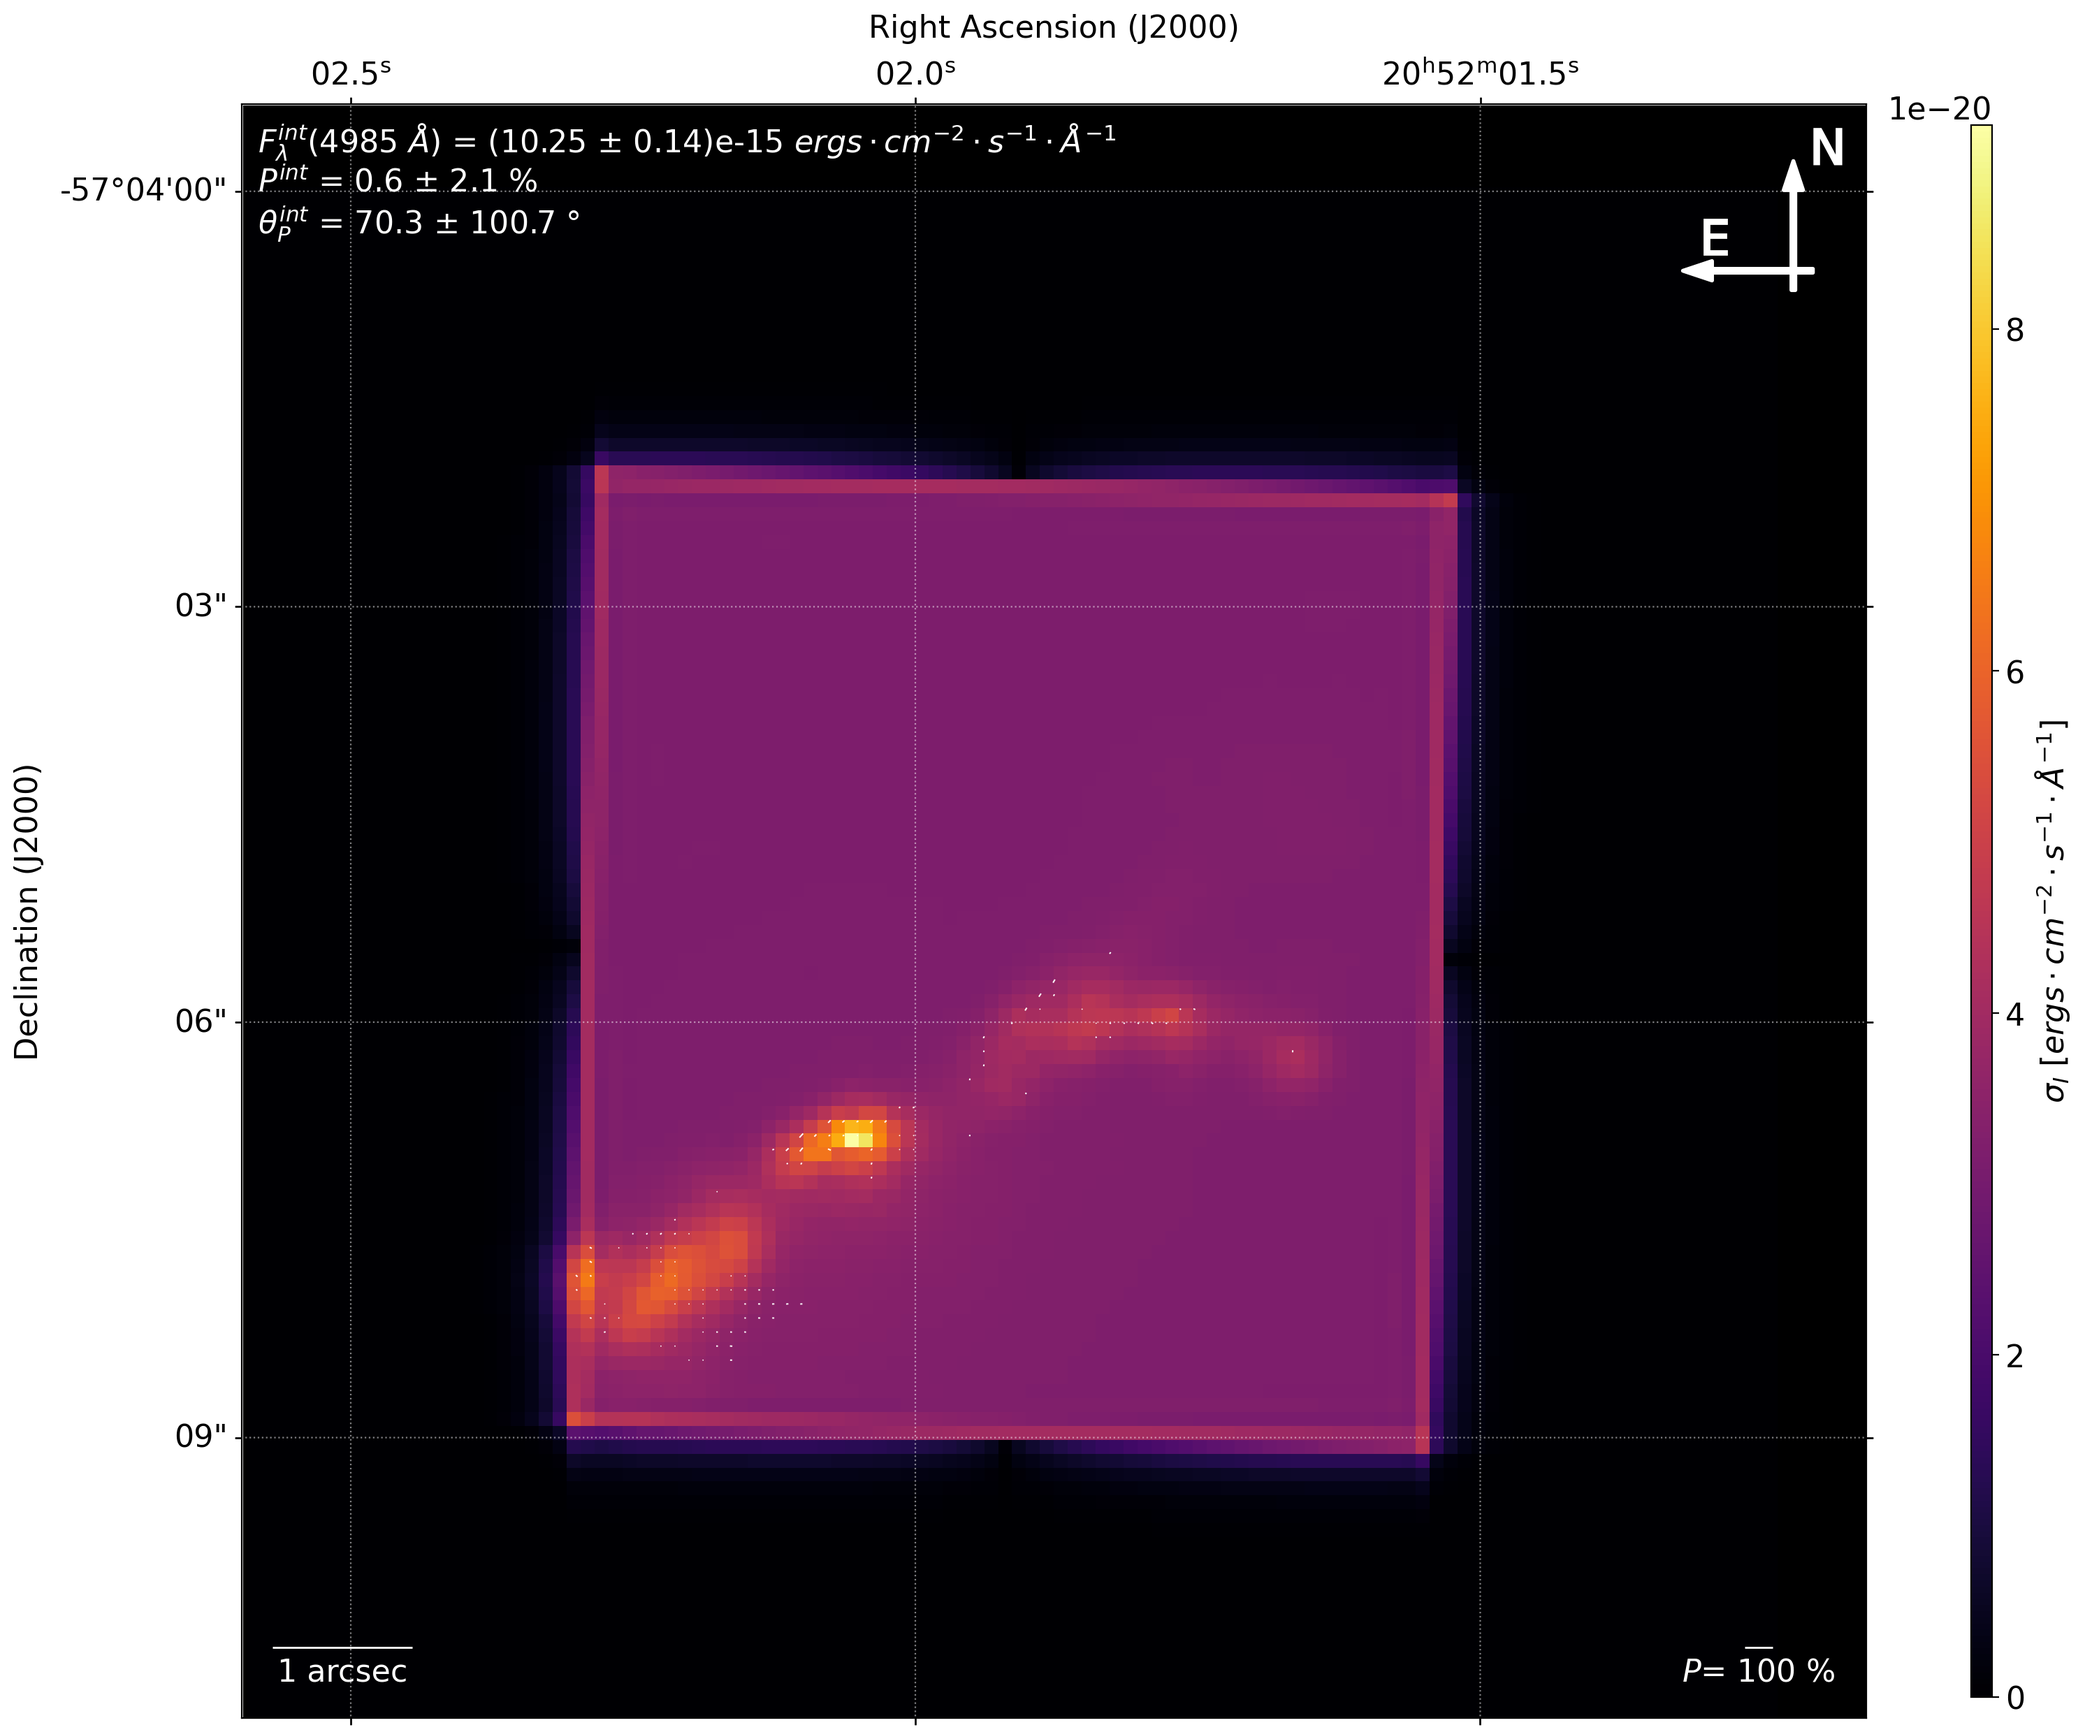
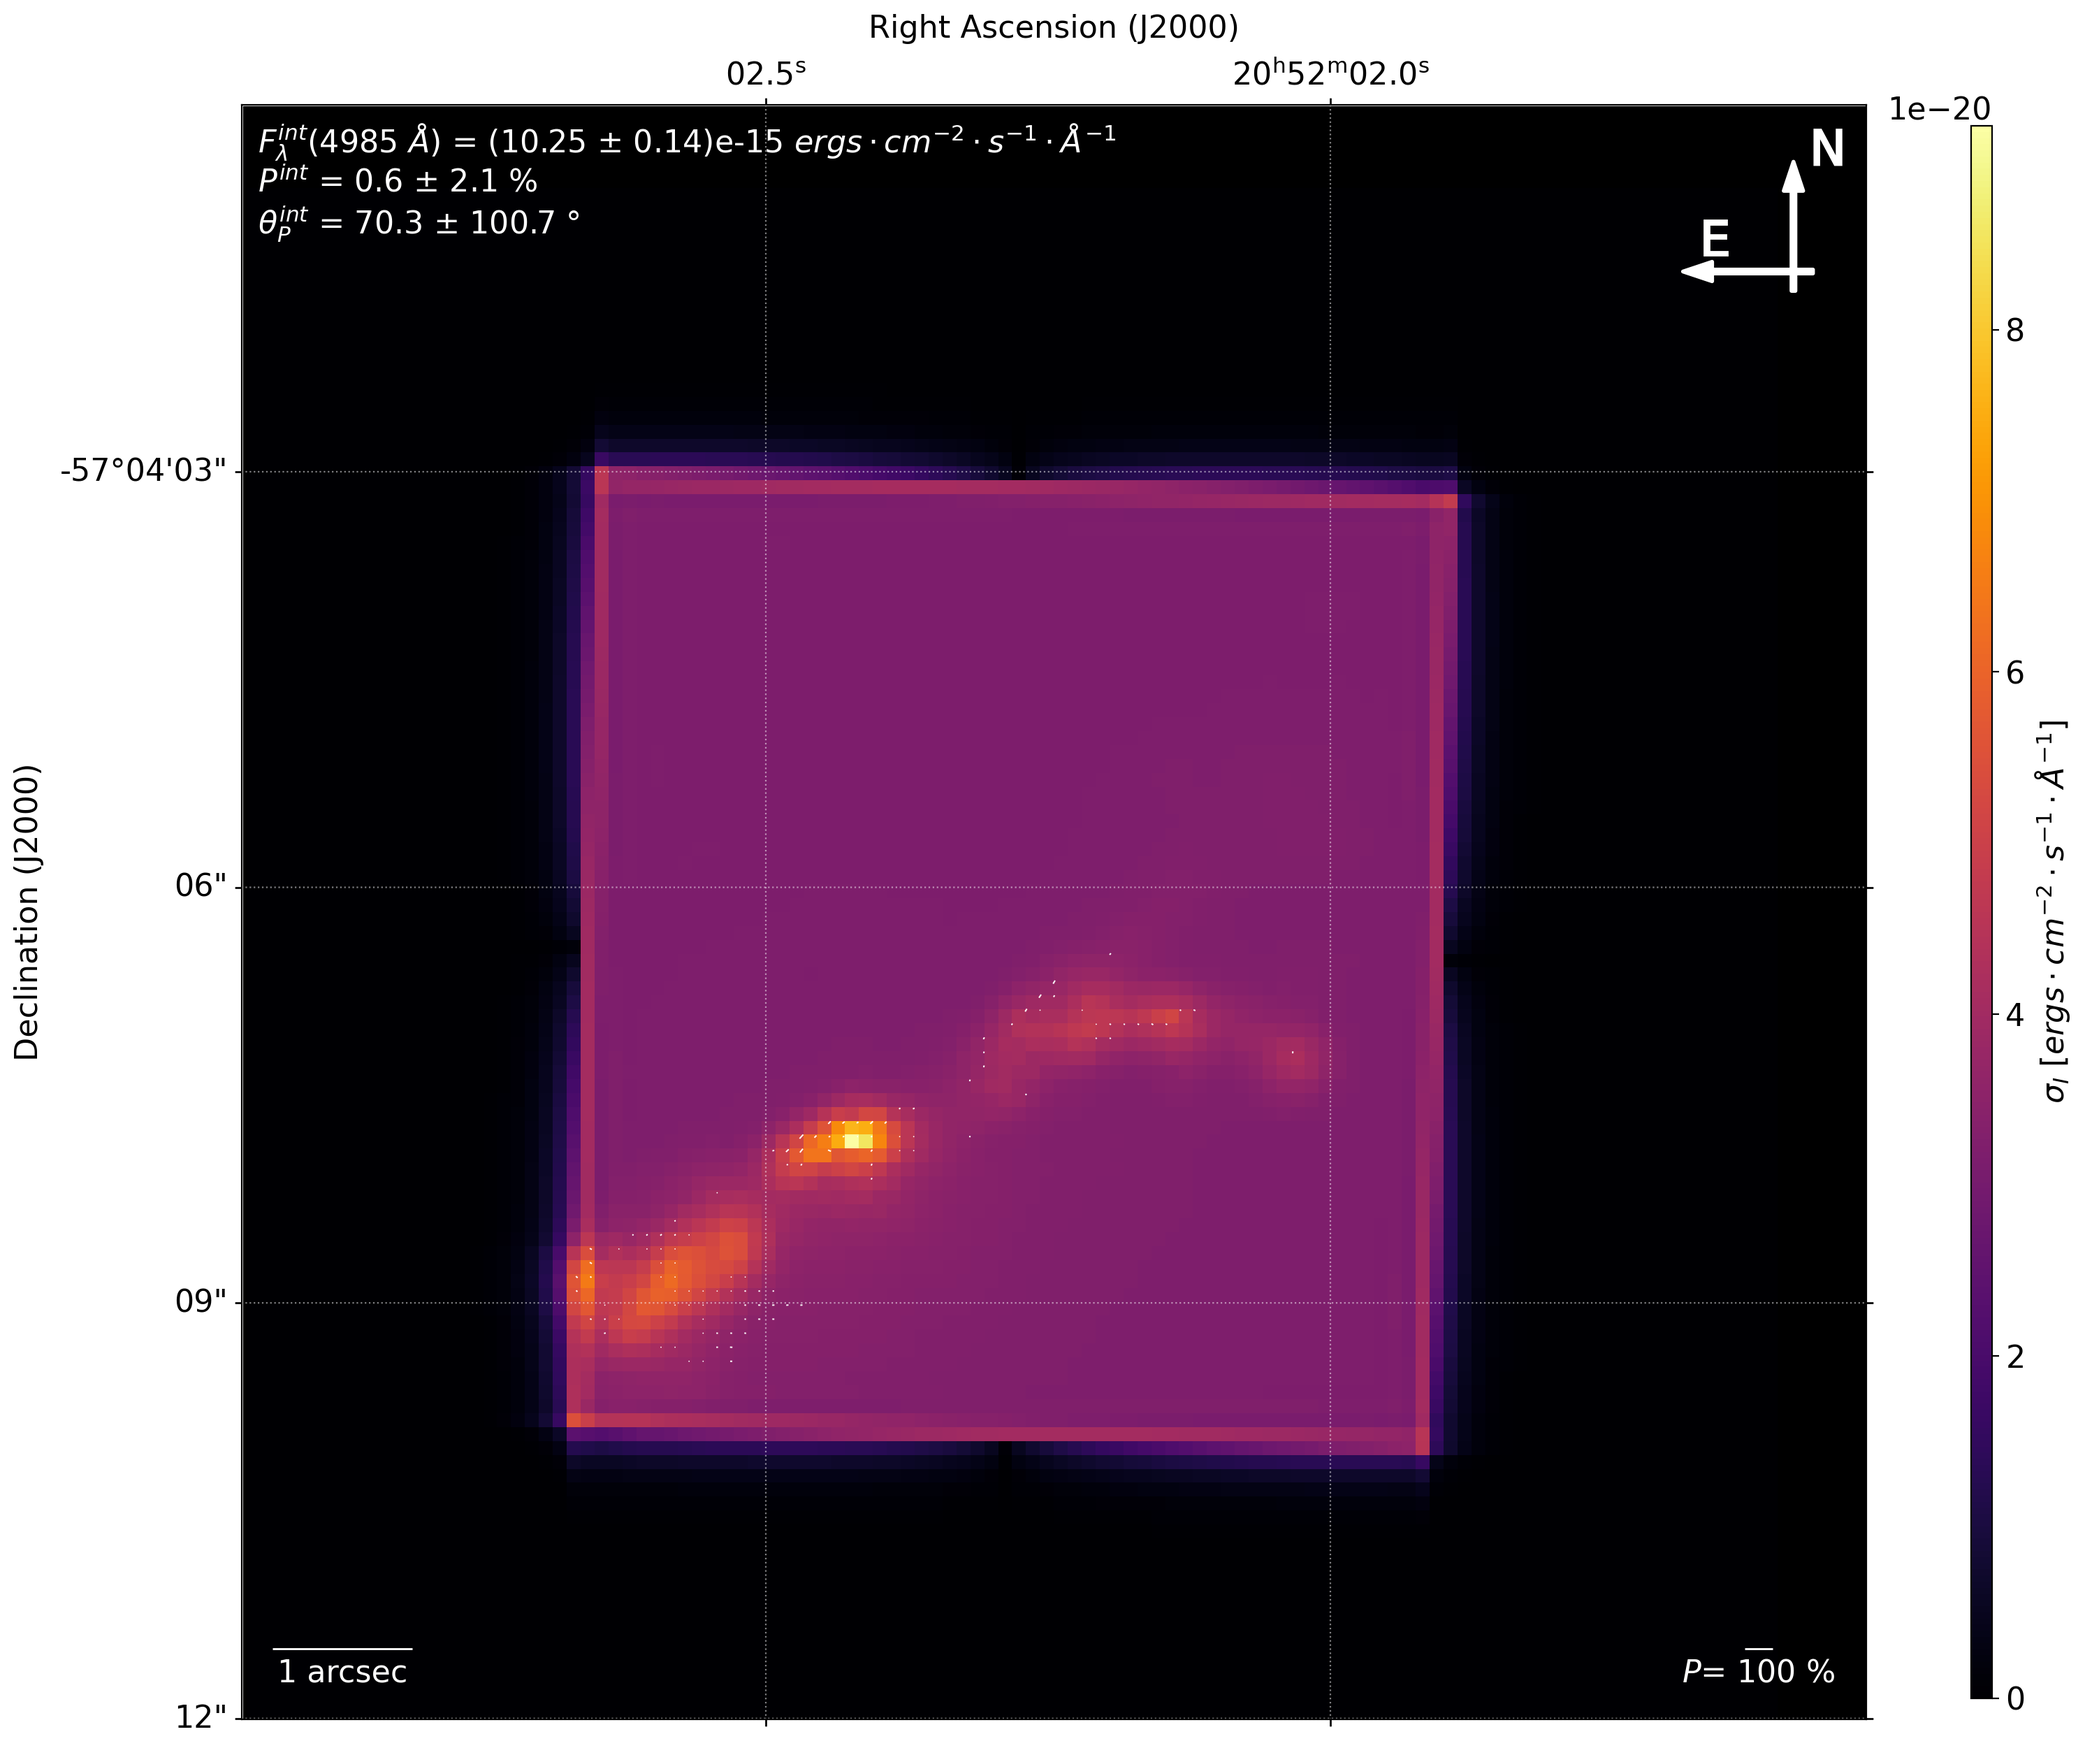
correct CRPIX handlign when cropping/aligning/rotating

diff --git a/src/lib/reduction.py b/src/lib/reduction.py
@@ -216,6 +216,10 @@ def crop_array(data_array, headers, error_array=None, step=5, null_val=None,
     Returns:
     cropped_array : numpy.ndarray
         Array containing the observationnal data homogeneously cropped.
+    headers : header list
+        Updated headers associated with the images in data_array.
+    cropped_error : numpy.ndarray
+        Array containing the error on the observationnal data homogeneously cropped.
     """
     if error_array is None:
         error_array = np.zeros(data_array.shape)
@@ -282,11 +286,16 @@ def crop_array(data_array, headers, error_array=None, step=5, null_val=None,
 
     crop_array = np.zeros((data_array.shape[0],new_shape[0],new_shape[1]))
     crop_error_array = np.zeros((data_array.shape[0],new_shape[0],new_shape[1]))
-    for i,image in enumerate(data_array):   #Put the image data in the cropped array
+    for i,image in enumerate(data_array):
+        #Put the image data in the cropped array
         crop_array[i] = image[v_array[0]:v_array[1],v_array[2]:v_array[3]]
         crop_error_array[i] = error_array[i][v_array[0]:v_array[1],v_array[2]:v_array[3]]
+        #Update CRPIX value in the associated header
+        curr_wcs = deepcopy(WCS(headers[i]))
+        curr_wcs.wcs.crpix = curr_wcs.wcs.crpix - np.array([v_array[0], v_array[2]])
+        headers[i].update(curr_wcs.to_header())
 
-    return crop_array, crop_error_array
+    return crop_array, crop_error_array, headers
 
 
 def deconvolve_array(data_array, headers, psf='gaussian', FWHM=1., scale='px',
@@ -353,7 +362,7 @@ def deconvolve_array(data_array, headers, psf='gaussian', FWHM=1., scale='px',
     return deconv_array
 
 
-def get_error(data_array, sub_shape=(15,15), display=False, headers=None,
+def get_error(data_array, headers, sub_shape=(15,15), display=False,
         savename=None, plots_folder="", return_background=False):
     """
     Look for sub-image of shape sub_shape that have the smallest integrated
@@ -363,6 +372,8 @@ def get_error(data_array, sub_shape=(15,15), display=False, headers=None,
     Inputs:
     data_array : numpy.ndarray
         Array containing the data to study (2D float arrays).
+    headers : header list
+        Headers associated with the images in data_array.
     sub_shape : tuple, optional
         Shape of the sub-image to look for. Must be odd.
         Defaults to (15,15).
@@ -370,10 +381,6 @@ def get_error(data_array, sub_shape=(15,15), display=False, headers=None,
         If True, data_array will be displayed with a rectangle around the
         sub-image selected for background computation.
         Defaults to False.
-    headers : header list, optional
-        Headers associated with the images in data_array. Will only be used if
-        display is True.
-        Defaults to None.
     savename : str, optional
         Name of the figure the map should be saved to. If None, the map won't
         be saved (only displayed). Only used if display is True.
@@ -390,6 +397,8 @@ def get_error(data_array, sub_shape=(15,15), display=False, headers=None,
     Returns:
     data_array : numpy.ndarray
         Array containing the data to study minus the background.
+    headers : header list
+        Updated headers associated with the images in data_array.
     error_array : numpy.ndarray
         Array containing the background values associated to the images in
         data_array.
@@ -399,7 +408,7 @@ def get_error(data_array, sub_shape=(15,15), display=False, headers=None,
         Only returned if return_background is True.
     """
     # Crop out any null edges
-    data, error = crop_array(data_array, headers, step=5, null_val=0., inside=False)
+    data, error, headers = crop_array(data_array, headers, step=5, null_val=0., inside=False)
 
     sub_shape = np.array(sub_shape)
     # Make sub_shape of odd values
@@ -449,7 +458,6 @@ def get_error(data_array, sub_shape=(15,15), display=False, headers=None,
             print(data_array[i])
 
     if display:
-
         convert_flux = headers[0]['photflam']
         date_time = np.array([headers[i]['date-obs']+';'+headers[i]['time-obs']
             for i in range(len(headers))])
@@ -497,9 +505,9 @@ def get_error(data_array, sub_shape=(15,15), display=False, headers=None,
         plt.show()
 
     if return_background:
-        return data_array, error_array, np.array([error_array[i][0,0] for i in range(error_array.shape[0])])
+        return data_array, error_array, headers, np.array([error_array[i][0,0] for i in range(error_array.shape[0])])
     else:
-        return data_array, error_array
+        return data_array, error_array, headers
 
 
 def rebin_array(data_array, error_array, headers, pxsize, scale,
@@ -656,19 +664,21 @@ def align_data(data_array, headers, error_array=None, upsample_factor=1.,
         raise ValueError("All images in data_array must have same shape as\
             ref_data")
     if error_array is None:
-        _, error_array, background = get_error(data_array, return_background=True)
+        _, error_array, headers, background = get_error(data_array, headers, return_background=True)
     else:
-        _, _, background = get_error(data_array, return_background=True)
+        _, _, headers, background = get_error(data_array, headers, return_background=True)
 
     # Crop out any null edges
     #(ref_data must be cropped as well)
     full_array = np.concatenate((data_array,[ref_data]),axis=0)
+    full_headers = deepcopy(headers)
+    full_headers.append(headers[0])
     err_array = np.concatenate((error_array,[np.zeros(ref_data.shape)]),axis=0)
 
-    full_array, err_array = crop_array(full_array, headers, err_array, step=5,
+    full_array, err_array, full_headers = crop_array(full_array, full_headers, err_array, step=5,
             inside=False)
 
-    data_array, ref_data = full_array[:-1], full_array[-1]
+    data_array, ref_data, headers = full_array[:-1], full_array[-1], full_headers[:-1]
     error_array = err_array[:-1]
 
     if ref_center is None:
@@ -723,14 +733,22 @@ def align_data(data_array, headers, error_array=None, upsample_factor=1.,
 
         shifts.append(shift)
         errors.append(error)
-
+    
     shifts = np.array(shifts)
     errors = np.array(errors)
 
+    # Update headers CRPIX value
+    added_pix = (np.array(rescaled_image.shape[1:]) - np.array(data_array.shape[1:]))/2
+    headers_wcs = [deepcopy(WCS(header)) for header in headers]
+    new_crpix = np.array([wcs.wcs.crpix for wcs in headers_wcs]) + shifts + added_pix
+    for i in range(len(headers_wcs)):
+        headers_wcs[i].wcs.crpix = new_crpix.mean(axis=0)
+        headers[i].update(headers_wcs[i].to_header())
+
     if return_shifts:
-        return rescaled_image, rescaled_error, rescaled_mask.any(axis=0), shifts, errors
+        return rescaled_image, rescaled_error, headers, rescaled_mask.any(axis=0), shifts, errors
     else:
-        return rescaled_image, rescaled_error, rescaled_mask.any(axis=0)
+        return rescaled_image, rescaled_error, headers, rescaled_mask.any(axis=0)
 
 
 def smooth_data(data_array, error_array, data_mask, headers, FWHM=1.,
@@ -1316,6 +1334,8 @@ def rotate_Stokes(I_stokes, Q_stokes, U_stokes, Stokes_cov, data_mask, headers, 
             new_Stokes_cov[i,j] = sc_rotate(new_Stokes_cov[i,j], ang,
                     reshape=False, cval=0.)
         new_Stokes_cov[i,i] = np.abs(new_Stokes_cov[i,i])
+    center = np.array(new_I_stokes.shape)/2
+    print('c',center)
 
     #Update headers to new angle
     new_headers = []
@@ -1324,7 +1344,6 @@ def rotate_Stokes(I_stokes, Q_stokes, U_stokes, Stokes_cov, data_mask, headers, 
     for header in headers:
         new_header = deepcopy(header)
         new_header['orientat'] = header['orientat'] + ang
-
         new_wcs = WCS(header).deepcopy()
         if new_wcs.wcs.has_cd():    # CD matrix
             # Update WCS with relevant information
@@ -1344,6 +1363,7 @@ def rotate_Stokes(I_stokes, Q_stokes, U_stokes, Stokes_cov, data_mask, headers, 
         elif new_wcs.wcs.has_pc():      # PC matrix + CDELT
             newpc = np.dot(mrot, new_wcs.wcs.get_pc())
             new_wcs.wcs.pc = newpc
+        new_wcs.wcs.crpix = np.dot(mrot, new_wcs.wcs.crpix - center) + center
         new_wcs.wcs.set()
         new_header.update(new_wcs.to_header())
 
@@ -1359,9 +1379,9 @@ def rotate_Stokes(I_stokes, Q_stokes, U_stokes, Stokes_cov, data_mask, headers, 
     new_U_stokes[np.isnan(new_U_stokes)] = 0.
     new_Stokes_cov[np.isnan(new_Stokes_cov)] = fmax
 
-    return new_I_stokes, new_Q_stokes, new_U_stokes, new_Stokes_cov, new_data_mask, new_headers
+    return new_I_stokes, new_Q_stokes, new_U_stokes, new_Stokes_cov, new_headers, new_data_mask
 
-def rotate_data(data_array, error_array, data_mask, headers, ang):
+def rotate_data(data_array, error_array, headers, data_mask, ang):
     """
     Use scipy.ndimage.rotate to rotate I_stokes to an angle, and a rotation
     matrix to rotate Q, U of a given angle in degrees and update header
@@ -1437,4 +1457,4 @@ def rotate_data(data_array, error_array, data_mask, headers, ang):
 
         new_headers.append(new_header)
 
-    return new_data_array, new_error_array, new_data_mask, new_headers
+    return new_data_array, new_error_array, new_headers, new_data_mask

diff --git a/src/FOC_reduction.py b/src/FOC_reduction.py
@@ -130,7 +130,7 @@ def main():
         if (data < 0.).any():
             print("ETAPE 1 : ", data)
     # Crop data to remove outside blank margins.
-    data_array, error_array = proj_red.crop_array(data_array, headers, step=5, null_val=0., inside=True, display=display_crop, savename=figname, plots_folder=plots_folder)
+    data_array, error_array, headers = proj_red.crop_array(data_array, headers, step=5, null_val=0., inside=True, display=display_crop, savename=figname, plots_folder=plots_folder)
     for data in data_array:
         if (data < 0.).any():
             print("ETAPE 2 : ", data)
@@ -138,7 +138,7 @@ def main():
     if deconvolve:
         data_array = proj_red.deconvolve_array(data_array, headers, psf=psf, FWHM=psf_FWHM, scale=psf_scale, shape=psf_shape, iterations=iterations)
     # Estimate error from data background, estimated from sub-image of desired sub_shape.
-    data_array, error_array = proj_red.get_error(data_array, sub_shape=error_sub_shape, display=display_error, headers=headers, savename=figname+"_errors", plots_folder=plots_folder)
+    data_array, error_array, headers = proj_red.get_error(data_array, headers, sub_shape=error_sub_shape, display=display_error, savename=figname+"_errors", plots_folder=plots_folder)
     for data in data_array:
         if (data < 0.).any():
             print("ETAPE 3 : ", data)
@@ -150,7 +150,7 @@ def main():
         if (data < 0.).any():
             print("ETAPE 4 : ", data)
     # Align and rescale images with oversampling.
-    data_array, error_array, data_mask = proj_red.align_data(data_array, headers, error_array, upsample_factor=int(Dxy.min()), ref_center=align_center, return_shifts=False)
+    data_array, error_array, headers, data_mask = proj_red.align_data(data_array, headers, error_array, upsample_factor=int(Dxy.min()), ref_center=align_center, return_shifts=False)
     for data in data_array:
         if (data < 0.).any():
             print("ETAPE 5 : ", data)
@@ -166,7 +166,7 @@ def main():
         mrot = np.array([[np.cos(-alpha), -np.sin(-alpha)], [np.sin(-alpha), np.cos(-alpha)]])
         rectangle[0:2] = np.dot(mrot, np.asarray(rectangle[0:2]))+np.array(data_array.shape[1:])/2
         rectangle[4] = alpha
-        data_array, error_array, data_mask, headers = proj_red.rotate_data(data_array, error_array, data_mask, headers, -ref_header['orientat'])
+        data_array, error_array, headers, data_mask = proj_red.rotate_data(data_array, error_array, data_mask, headers, -ref_header['orientat'])
         for data in data_array:
             if (data < 0.).any():
                 print("ETAPE 6 : ", data)
@@ -191,7 +191,7 @@ def main():
             [np.sin(-alpha), np.cos(-alpha)]])
         rectangle[0:2] = np.dot(mrot, np.asarray(rectangle[0:2]))+np.array(data_array.shape[1:])/2
         rectangle[4] = alpha
-        I_stokes, Q_stokes, U_stokes, Stokes_cov, data_mask, headers = proj_red.rotate_Stokes(I_stokes, Q_stokes, U_stokes, Stokes_cov, data_mask, headers, -ref_header['orientat'], SNRi_cut=None)
+        I_stokes, Q_stokes, U_stokes, Stokes_cov, headers, data_mask = proj_red.rotate_Stokes(I_stokes, Q_stokes, U_stokes, Stokes_cov, data_mask, headers, -ref_header['orientat'], SNRi_cut=None)
     # Compute polarimetric parameters (polarization degree and angle).
     P, debiased_P, s_P, s_P_P, PA, s_PA, s_PA_P = proj_red.compute_pol(I_stokes, Q_stokes, U_stokes, Stokes_cov, headers)
 
